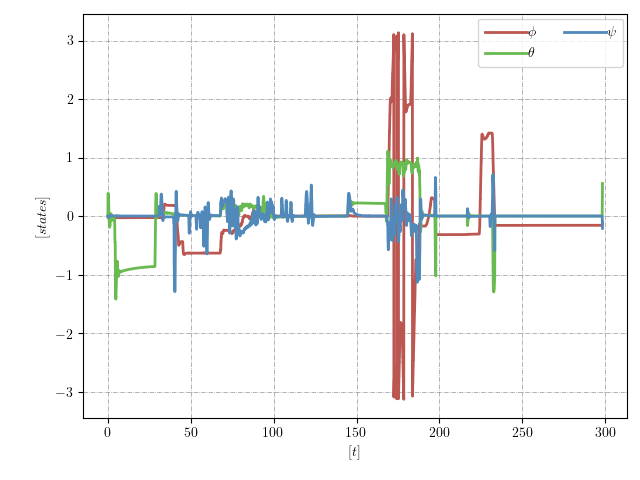
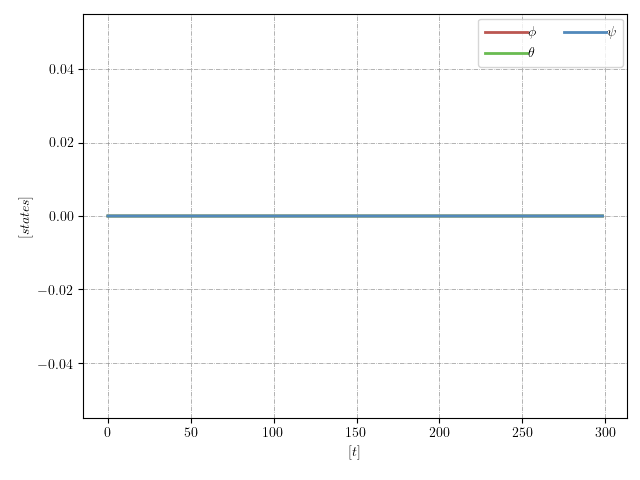
Pra la Jetson

diff --git a/S_UAV_simple_acados.py b/S_UAV_simple_acados.py
@@ -419,6 +419,21 @@ def send_state_to_topic(state_vector):
     # Publish the message
     publisher.publish(odometry_msg)
 
+
+def get_odometry_simple_sim():
+
+    global x_real, y_real, z_real, qx_real, qy_real, qz_real, qw_real, vx_real, vy_real, vz_real, wx_real, wy_real, wz_real
+
+    quaternion = [qx_real, qy_real, qz_real, qw_real ]
+    r_quat = R.from_quat(quaternion)
+    euler =  r_quat.as_euler('zyx', degrees = False)
+    psi = euler[0]
+
+
+    x_state = [x_real,y_real,z_real,psi,vx_real, vy_real, vz_real, wz_real]
+
+    return x_state
+
 def main(vel_pub, vel_msg):
     # Initial Values System
     # Simulation Time
@@ -494,6 +509,10 @@ def main(vel_pub, vel_msg):
     Ez = np.zeros((1, t.shape[0]-N_prediction), dtype = np.double)
 
     # Simulation System
+    ros_rate = 30  # Tasa de ROS en Hz
+    rate = rospy.Rate(ros_rate)  # Crear un objeto de la clase rospy.Rate
+
+    # Simulation System
     for k in range(0, t.shape[0]-N_prediction):
         tic = time.time()
                  # Reference Signal of the system
@@ -503,14 +522,14 @@ def main(vel_pub, vel_msg):
             xref[4,k:] = axes[0]
             xref[5,k:] = axes[1]
             xref[6,k:] = axes[3]
-            xref[7,k:] = (np.pi*axes[2])/2
+            xref[7,k:] = axes[2]
             #print("RC")
             #print("RC:", " ".join("{:.2f}".format(value) for value in np.round(xref[4:7, k], decimals=2)), end='\r')
 
         elif condicion == -10000.0:        
             xref[4,k:] = hdp_vision[0]
             xref[5,k:] = hdp_vision[1]
-            xref[6,k:] = hdp_vision[2]
+            xref[6,k:] = axes[3]
             xref[7,k:] = hdp_vision[5]
             #print("Servo-Visual:", " ".join("{:.2f}".format(value) for value in np.round(xref[4:7, k], decimals=2)), end='\r')
         
@@ -546,15 +565,17 @@ def main(vel_pub, vel_msg):
         # System Evolution
         #x_sim[:, k+1] = f_d(x[:, k], u_control[:, k], t_s, f)
         #send_state_to_topic(x_sim[:, k+1])
+        #x[:, k+1] = get_odometry_simple_sim()
 
         
         x[:, k+1] = get_odometry_simple()
         delta_t[:, k] = toc_solver
 
 
-        print("VEL:", " ".join("{:.2f}".format(value) for value in np.round(x[4:8, k], decimals=2)))
-        while (time.time() - tic <= t_s):
-                None
+        print("v_real:", " ".join("{:.2f}".format(value) for value in np.round(x[4:8, k], decimals=2)))
+        
+        
+        rate.sleep() 
         toc = time.time() - tic 
 
 
@@ -685,7 +706,8 @@ if __name__ == '__main__':
 
         main(velocity_publisher, velocity_message)
     except(rospy.ROSInterruptException, KeyboardInterrupt):
-        print("Error System")
+        print("\nError System")
+        send_velocity_control([0, 0, 0, 0], velocity_publisher, velocity_message)
         pass
     else:
         print("Complete Execution")

diff --git a/S_UAV_full_acados.py b/S_UAV_full_acados.py
@@ -745,7 +745,8 @@ if __name__ == '__main__':
 
         main(velocity_publisher, velocity_message)
     except(rospy.ROSInterruptException, KeyboardInterrupt):
-        print("Error System")
+        print("\nError System")
+        send_velocity_control([0, 0, 0, 0], velocity_publisher, velocity_message)
         pass
     else:
         print("Complete Execution")
